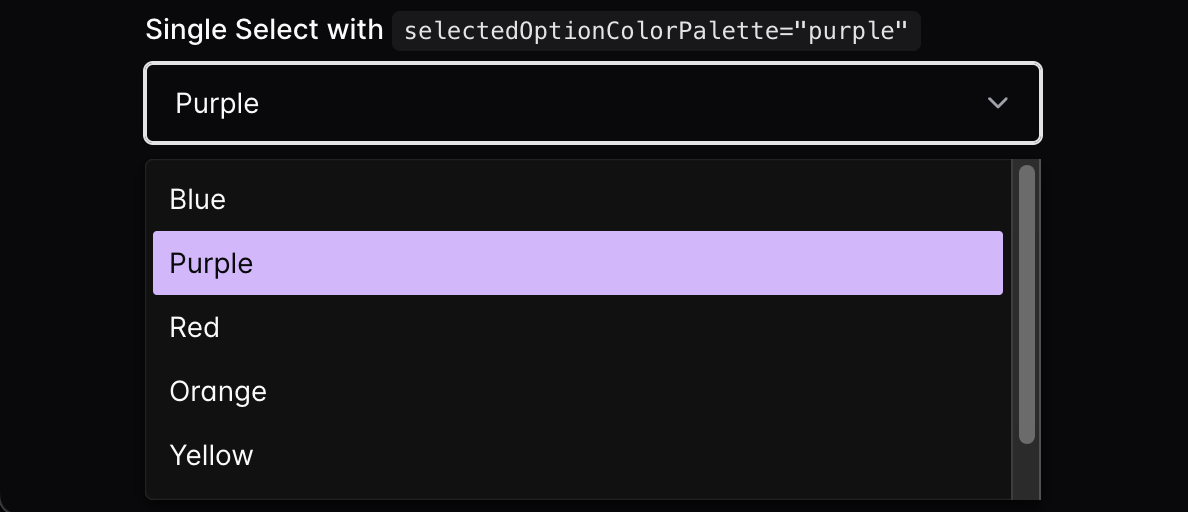
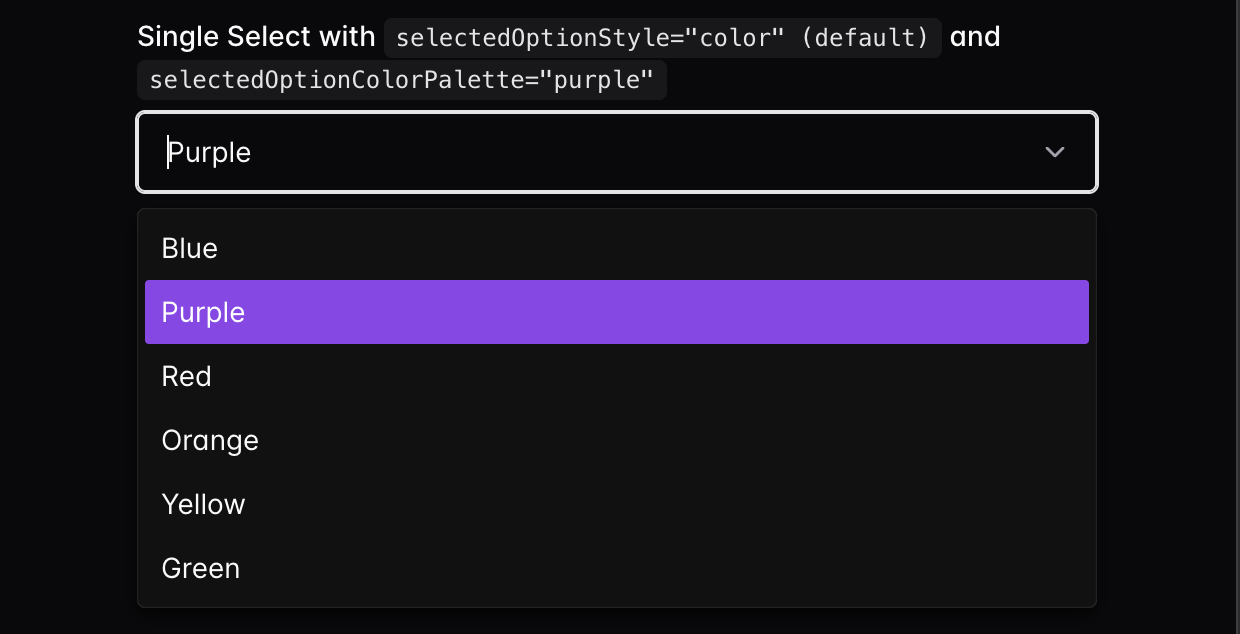
feat: Change `selectedOptionColorPalette` values pulled from the theme (#364)
* Change selectedOptionColorPalette selected values

* Add consistent-type-imports eslint rule

diff --git a/demo/src/app.tsx b/demo/src/app.tsx
@@ -10,16 +10,16 @@ import {
   Stack,
   Text,
 } from "@chakra-ui/react";
+import type { GroupBase, LoadingIndicatorProps } from "chakra-react-select";
 import {
   AsyncSelect,
   CreatableSelect,
-  GroupBase,
-  LoadingIndicatorProps,
   Select,
   chakraComponents,
 } from "chakra-react-select";
 import ConnectedSelectMenuExample from "./components/advanced-examples/connected-select-menu-example";
 import CustomIndicatorIconsExample from "./components/advanced-examples/custom-indicator-icons-example";
+import DynamicSelectedOptionColorExample from "./components/advanced-examples/dynamic-selected-option-color-example";
 import MenuPortalTargetExample from "./components/advanced-examples/menu-portal-target-example";
 import OptionsWithIconsExample from "./components/advanced-examples/options-with-icons-example";
 import SelectPopoverExample from "./components/advanced-examples/select-popover-example";
@@ -35,7 +35,8 @@ import {
   SelectValueText,
 } from "./components/ui/select";
 import animeMovies from "./data/anime-movies";
-import { ColorOption, colorOptions, groupedOptions } from "./data/options";
+import type { ColorOption } from "./data/options";
+import { colorOptions, groupedOptions } from "./data/options";
 
 const mappedColorOptions = colorOptions.map((option) => ({
   ...option,
@@ -352,6 +353,16 @@ const App = () => {
             placeholder="Select some colors..."
             selectedOptionStyle="color"
           />
+        </Field>
+
+        <Field
+          label={
+            <Span>
+              Single Select with dynamic <Code>selectedOptionColorPalette</Code>
+            </Span>
+          }
+        >
+          <DynamicSelectedOptionColorExample />
         </Field>
 
         <Field

diff --git a/src/chakra-components/menu.tsx b/src/chakra-components/menu.tsx
@@ -10,7 +10,7 @@ import type {
   OptionProps,
 } from "react-select";
 import type { SizeProps } from "../types";
-import { cleanCommonProps, useColorModeValue, useSize } from "../utils";
+import { cleanCommonProps, useSize } from "../utils";
 import { CheckIcon } from "./icons";
 
 export const Menu = <
@@ -314,17 +314,6 @@ export const Option = <
 
   const selectStyles = useSlotRecipe({ key: "select" })({ size, variant });
 
-  /**
-   * Use the same selected color as the border/shadow of the select/input components
-   *
-   * @see {@link https://github.com/chakra-ui/chakra-ui/blob/61f965a/packages/components/theme/src/components/input.ts#L92-L93}
-   */
-  const selectedBg = useColorModeValue(
-    `${selectedOptionColorPalette}.500`,
-    `${selectedOptionColorPalette}.300`
-  );
-  const selectedColor = useColorModeValue("white", "black");
-
   // Don't create exta space for the checkmark if using a multi select with
   // options that dissapear when they're selected
   const showCheckIcon =
@@ -337,9 +326,9 @@ export const Option = <
     ...selectStyles.item,
     ...(shouldHighlight
       ? {
-          bg: selectedBg,
-          color: selectedColor,
-          _active: { bg: selectedBg },
+          color: "colorPalette.contrast",
+          bg: "colorPalette.solid",
+          _active: { bg: "colorPalette.solid" },
         }
       : {}),
   };
@@ -351,6 +340,7 @@ export const Option = <
   return (
     <Box
       {...innerProps}
+      colorPalette={selectedOptionColorPalette}
       className={cx(
         {
           option: true,

diff --git a/demo/src/data/options.ts b/demo/src/data/options.ts
@@ -1,18 +1,23 @@
-import { OptionBase } from "chakra-react-select";
+import type { ColorPalette } from "@chakra-ui/react";
+import type { OptionBase } from "chakra-react-select";
 
 export interface ColorOption extends OptionBase {
   label: string;
-  value: string;
-  color: string;
+  value: ColorPalette;
 }
 
 export const colorOptions: ColorOption[] = [
-  { value: "blue", label: "Blue", color: "#0052CC" },
-  { value: "purple", label: "Purple", color: "#5243AA" },
-  { value: "red", label: "Red", color: "#FF5630" },
-  { value: "orange", label: "Orange", color: "#FF8B00" },
-  { value: "yellow", label: "Yellow", color: "#FFC400" },
-  { value: "green", label: "Green", color: "#36B37E" },
+  { value: "gray", label: "Gray" },
+  { value: "red", label: "Red" },
+  { value: "pink", label: "Pink" },
+  { value: "purple", label: "Purple" },
+  { value: "cyan", label: "Cyan" },
+  { value: "blue", label: "Blue" },
+  { value: "teal", label: "Teal" },
+  { value: "green", label: "Green" },
+  { value: "yellow", label: "Yellow" },
+  { value: "orange", label: "Orange" },
+  { value: "brand", label: "Brand" },
 ];
 
 export interface FlavorOption extends OptionBase {

diff --git a/demo/src/theme/index.ts b/demo/src/theme/index.ts
@@ -46,6 +46,33 @@ const config = defineConfig({
         button: { value: "pointer" },
         option: { value: "pointer" },
       },
+      colors: {
+        brand: {
+          50: { value: "#f3f8fd" },
+          100: { value: "#d1e2f8" },
+          200: { value: "#a9c8f2" },
+          300: { value: "#77a8eb" },
+          400: { value: "#5a96e7" },
+          500: { value: "#327ce1" },
+          600: { value: "#0b63dc" },
+          700: { value: "#004eb9" },
+          800: { value: "#00429d" },
+          900: { value: "#003072" },
+        },
+      },
+    },
+    semanticTokens: {
+      colors: {
+        brand: {
+          solid: { value: "{colors.brand.500}" },
+          contrast: { value: "white" },
+          fg: { value: "{colors.brand.700}" },
+          muted: { value: "{colors.brand.100}" },
+          subtle: { value: "{colors.brand.200}" },
+          emphasized: { value: "{colors.brand.300}" },
+          focusRing: { value: "{colors.brand.500}" },
+        },
+      },
     },
   },
 });

diff --git a/src/utils.ts b/src/utils.ts
@@ -1,5 +1,4 @@
 import { useBreakpointValue, useChakraContext } from "@chakra-ui/react";
-import { useTheme } from "next-themes";
 import type { CommonPropsAndClassName, GroupBase } from "react-select";
 import type { Size, SizeProp } from "./types";
 
@@ -80,20 +79,3 @@ export const useSize = (size: SizeProp | undefined): Size => {
 
   return useBreakpointValue(responsiveSize) ?? defaultSize;
 };
-
-export function useColorMode() {
-  const { resolvedTheme, setTheme } = useTheme();
-  const toggleColorMode = () => {
-    setTheme(resolvedTheme === "light" ? "dark" : "light");
-  };
-  return {
-    colorMode: resolvedTheme,
-    setColorMode: setTheme,
-    toggleColorMode,
-  };
-}
-
-export function useColorModeValue<T>(light: T, dark: T) {
-  const { colorMode } = useColorMode();
-  return colorMode === "light" ? light : dark;
-}

diff --git a/demo/src/components/advanced-examples/dynamic-selected-option-color-example.tsx b/demo/src/components/advanced-examples/dynamic-selected-option-color-example.tsx
@@ -1,0 +1,23 @@
+import { useState } from "react";
+import { Select } from "chakra-react-select";
+import type { ColorOption } from "../../data/options";
+import { colorOptions } from "../../data/options";
+
+const DynamicSelectedOptionColorExample = () => {
+  const [selectedOptionColorPalette, setSelectedOptionColorPalette] =
+    useState<ColorOption | null>(colorOptions[0]);
+
+  return (
+    <Select
+      name="colors"
+      options={colorOptions}
+      placeholder="Select a color..."
+      closeMenuOnSelect={false}
+      value={selectedOptionColorPalette}
+      onChange={setSelectedOptionColorPalette}
+      selectedOptionColorPalette={selectedOptionColorPalette?.value}
+    />
+  );
+};
+
+export default DynamicSelectedOptionColorExample;

diff --git a/demo/src/components/advanced-examples/select-popover-example.tsx b/demo/src/components/advanced-examples/select-popover-example.tsx
@@ -1,13 +1,14 @@
 import { useRef, useState } from "react";
 import { Icon } from "@chakra-ui/react";
-import {
+import type {
   ChakraStylesConfig,
-  Select,
   SelectInstance,
   SingleValue,
 } from "chakra-react-select";
+import { Select } from "chakra-react-select";
 import { LuChevronDown, LuSearch } from "react-icons/lu";
-import { StateOption, stateOptions } from "../../data/options";
+import type { StateOption } from "../../data/options";
+import { stateOptions } from "../../data/options";
 import { Button } from "../ui/button";
 import {
   PopoverBody,

diff --git a/demo/eslint.config.js b/demo/eslint.config.js
@@ -25,6 +25,13 @@ const eslintConfig = tseslint.config(
       ...react.configs.recommended.rules,
       ...react.configs["jsx-runtime"].rules,
       ...reactHooks.configs.recommended.rules,
+      "@typescript-eslint/consistent-type-imports": [
+        "warn",
+        {
+          prefer: "type-imports",
+          disallowTypeAnnotations: true,
+        },
+      ],
       "react/prop-types": "off",
       "react-refresh/only-export-components": [
         "warn",

diff --git a/demo/src/components/advanced-examples/custom-indicator-icons-example.tsx b/demo/src/components/advanced-examples/custom-indicator-icons-example.tsx
@@ -1,9 +1,5 @@
-import {
-  GroupBase,
-  Select,
-  SelectComponentsConfig,
-  chakraComponents,
-} from "chakra-react-select";
+import type { GroupBase, SelectComponentsConfig } from "chakra-react-select";
+import { Select, chakraComponents } from "chakra-react-select";
 import { LuArrowDown, LuCircleX } from "react-icons/lu";
 import { groupedOptions } from "../../data/options";
 

diff --git a/demo/src/components/advanced-examples/menu-portal-target-example.tsx b/demo/src/components/advanced-examples/menu-portal-target-example.tsx
@@ -1,6 +1,7 @@
 import { useState } from "react";
 import { Stack } from "@chakra-ui/react";
-import { Select, Props as SelectProps } from "chakra-react-select";
+import type { Props as SelectProps } from "chakra-react-select";
+import { Select } from "chakra-react-select";
 import { colorOptions } from "../../data/options";
 import { Button } from "../ui/button";
 import {

diff --git a/demo/src/data/countries.ts b/demo/src/data/countries.ts
@@ -1,4 +1,4 @@
-import { GroupBase, OptionBase } from "chakra-react-select";
+import type { GroupBase, OptionBase } from "chakra-react-select";
 
 export interface CountryOption extends OptionBase {
   label: string;

diff --git a/README.md b/README.md
@@ -344,7 +344,13 @@ If you choose to stick with the default `selectedOptionStyle="color"`, you have
 one additional styling option. If you do not like the default of blue for the
 highlight color, you can pass the `selectedOptionColorPalette` prop to change
 it. This prop will accept any named color from your theme's color palette, and
-it will use the `500` value in light mode or the `300` value in dark mode.
+it will use `colorPalette.solid` for the background, and `colorPalette.contrast`
+for the text.
+
+If you'd like to use a custom color palette for this prop, ensure that you have
+properly set up the custom color, including the `solid` and `contrast` semantic
+tokens, accoring to
+[the official guide](https://www.chakra-ui.com/guides/theming-custom-colors).
 
 > [!NOTE]
 >
